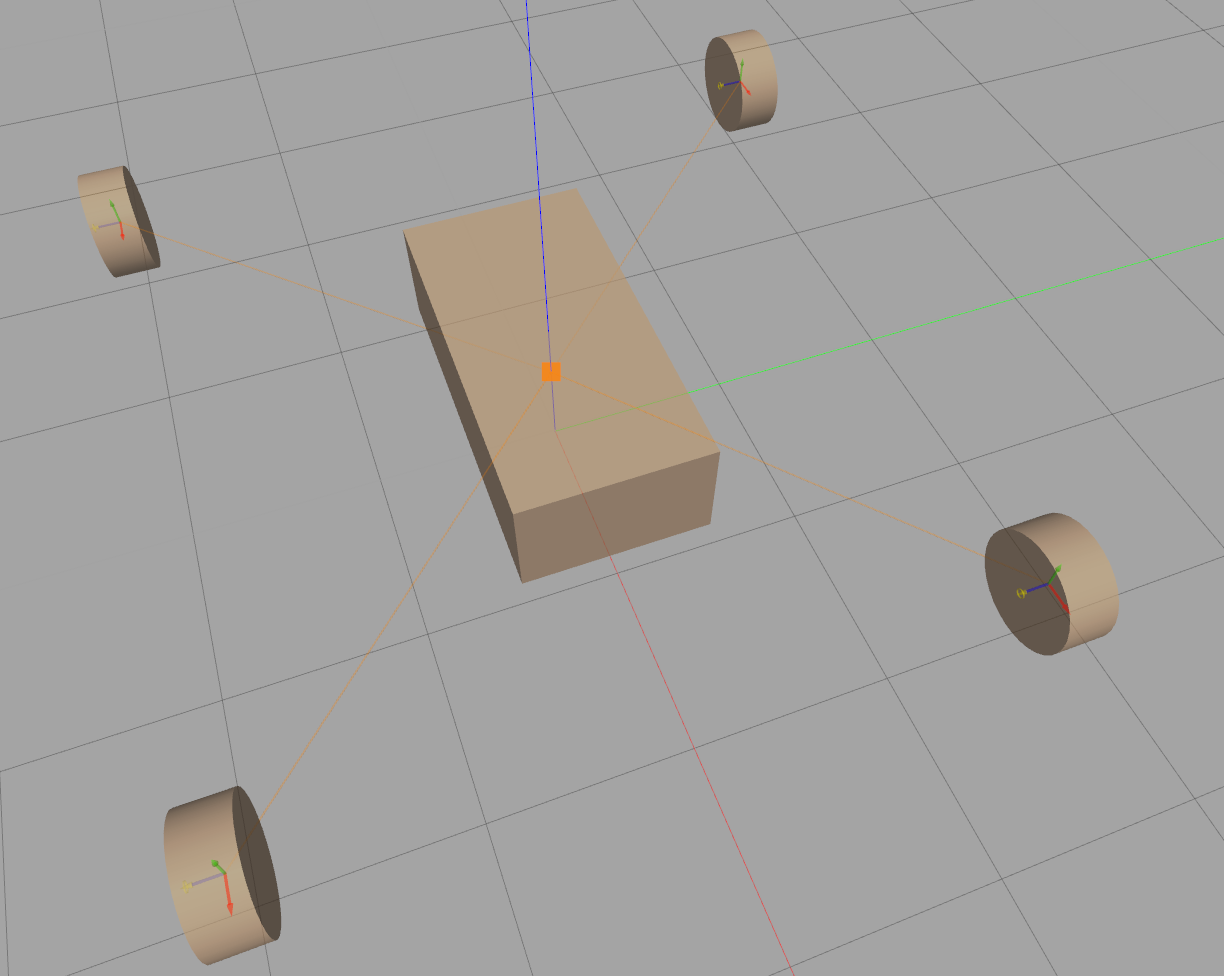
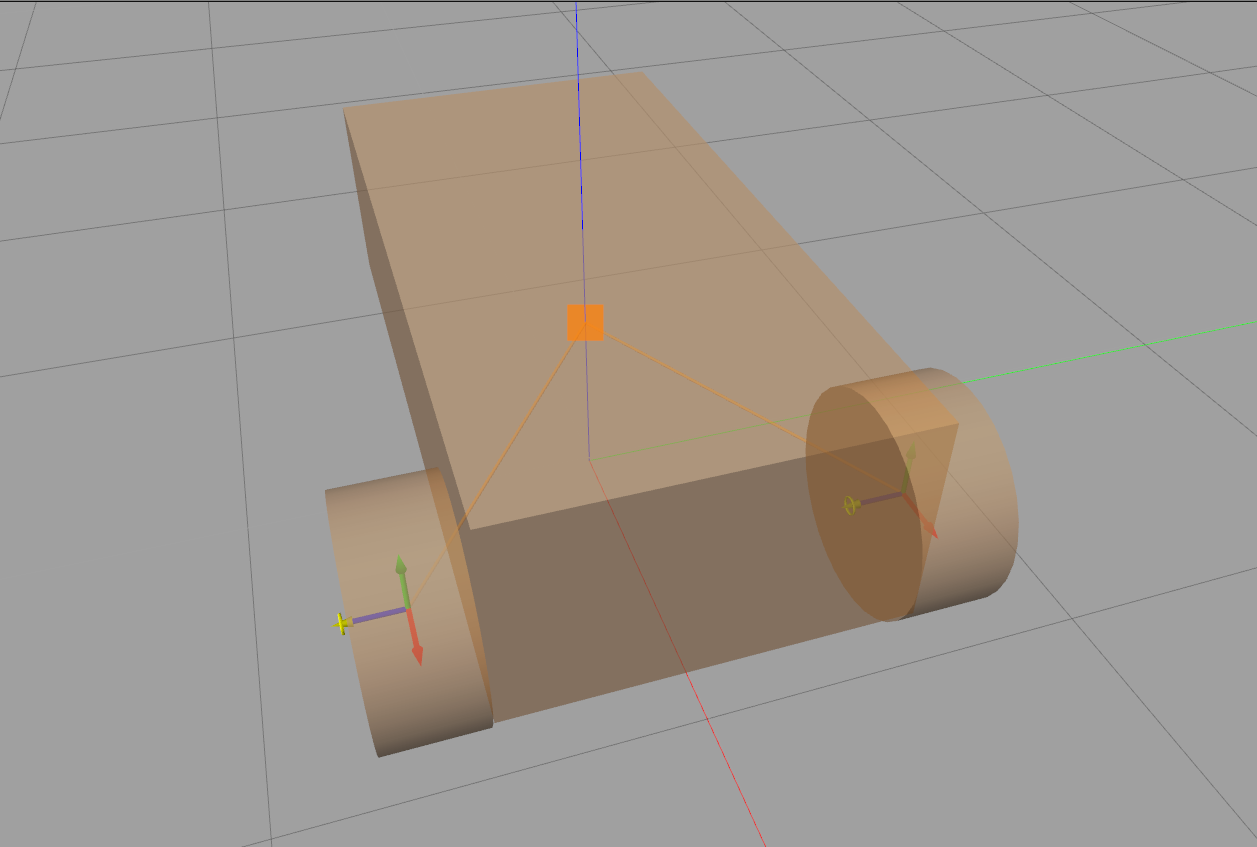
update to use the new joint creation tool, and a castor wheel

diff --git a/ftu/tutorial4.md b/ftu/tutorial4.md
@@ -62,15 +62,15 @@ yet available:
 
 This section provides step-by-step instructions on creating a simple vehicle model in the Model Editor.
 
+**Chassis**
+
 1. First,  we'll create the vehicle chassis. In the Insert tab in the left panel, click once on the Box icon, move the cursor to anywhere in the Scene,
    and click again to release the box.
 
     [[file:files/ftu4/ftu4-editor_box.png|400px]]
 
 1. Next, resize the box so that it looks more like the shape of a car chassis. We can do this using the Scale tool located on the top Toolbar.
-   Select the box in the Scene, and a RGB-colored marker should appear over the box. The red color arrow represents the X axis, green is Y, and blue is Z.
-   Move the mouse over the red arrow to highlight it, then click and drag to make the chassis longer along the X axis. Scale the chassis so it is roughly 2
-   meters long. You can estimate this by looking at the 1x1 meter grids on the ground.
+   Select the box in the Scene, and a RGB-colored marker should appear over the box. The red color arrow represents the X axis, green is Y, and blue is Z. Move the mouse over the red arrow to highlight it, then click and drag to make the chassis longer along the X axis. Scale the chassis so it is roughly 2 meters long. You can estimate this by looking at the 1x1 meter grids on the ground.
 
     [[file:files/ftu4/ftu4-scale_tool.png|200px]]
 
@@ -84,78 +84,92 @@ This section provides step-by-step instructions on creating a simple vehicle mod
 
     [[file:files/ftu4/ftu4-chassis_height.png|600px]]
 
-1. Let's move on to the wheels. Start by inserting a cylinder from the Insert tab on the left panel.
+**Front Wheels**
 
-1. The cylinder in its default orientation will not roll very well. Let's rotate it along the X axis using the Link Inspector. Double-click on the cylinder,
-   scroll to the bottom, and change `Roll` to 1.5707 radians (90 degrees) and hit the Enter key on the keyboard. Do not close the Inspector just yet.
+1. Let's move on to the front wheels. Start by inserting a cylinder from the Insert tab on the left panel.
+
+1. The cylinder in its default orientation will not roll very well. Let's rotate it along the X axis using the Link Inspector. Double-click on the cylinder, scroll to the bottom, and change `Roll` to 1.5707 radians (90 degrees) and hit the Enter key on the keyboard. Do not close the Inspector just yet.
 
     [[file:files/ftu4/ftu4-wheel_rotate.png|600px]]
 
-1. Next, resize the wheel by giving it exact dimensions. Go to the Visual tab to see the list of visuals in this link. There should only be one. Expand the
-   visual item by clicking on the small arrow next to the `visual` text label. Scroll down to the `Geometry` section and change the
-   `Radius` to 0.3m and `Length` to 0.25m. Hit Enter when done.
+1. Next, resize the wheel by giving it exact dimensions. Go to the Visual tab to see the list of visuals in this link. There should only be one. Expand the visual item by clicking on the small arrow next to the `visual` text label. Scroll down to the `Geometry` section and change the `Radius` to 0.3m and `Length` to 0.25m. Hit Enter when done.
 
     [[file:files/ftu4/ftu4-wheel_visual.png|600px]]
 
-1. You should now see in the Scene that a smaller cylinder appears inside the bigger cylinder. This is expected as we have only changed the visual geometry
-   but not the collision. A 'visual' is the graphical representation of the link and does not affect the physics simulation. On the other hand, a 'collision' is used by the physics engine for collision checking. To also update the wheel's collision, go to the Collision tab, expand the only collision item, and enter the same Geometry dimensions. `Radius`: 0.3m and `Length`:
-   0.25m.
+1. You should now see in the Scene that a smaller cylinder appears inside the bigger cylinder. This is expected as we have only changed the visual geometry but not the collision. A 'visual' is the graphical representation of the link and does not affect the physics simulation. On the other hand, a 'collision' is used by the physics engine for collision checking. To also update the wheel's collision, go to the Collision tab, expand the only collision item, and enter the same Geometry dimensions. `Radius`: 0.3m and `Length`: 0.25m.
 
-1. Now that we have created our first wheel, we'll use it as a template and make three more. Select the wheel and click on the Copy icon in the top Toolbar.
-
+1. Now that we have created our first wheel, we'll use it as a template and make another one. Select the wheel and click on the Copy icon in the top Toolbar.
+gm
     [[file:files/ftu4/ftu4-copy_tool.png|200px]]
 
-1. Click on the Paste icon and move the mouse back to the Scene to insert the copy. Repeat the process until there are four wheels in the Scene.
+1. Click on the Paste icon and move the mouse back to the Scene to insert the copy.
 
     [[file:files/ftu4/ftu4-wheel_paste.png|600px]]
 
-1. The chassis and the wheels are currently free-moving bodies. To constrain their motion, we'll add joints between each wheel and the chassis. Begin by
-   clicking on the Joint Creation icon in the top Toolbar. Move the mouse over the chassis to see it highlighted, and click on it to set it as the parent
-   of the joint.
+1. The chassis and the wheels are currently free-moving bodies. To constrain their motion, we'll add joints between each wheel and the chassis. Begin by clicking on the Joint icon in the top Toolbar to bring up the Joint Creation dialog.
 
-1. Move the mouse to one of the wheels; a line should now extend from the origin of the chassis to the end of the mouse. Click on the wheel to set it as
-   the child of the joint. A new joint is created. By default it is a revolute joint which just happens to be the joint type we want.
-   
-   Note: You may find it useful to change the view angle at this point. This can be done in the Upper Toolbar; click the cube icon with an orange side.  
+    [[file:files/ftu4/ftu4-joint_dialog.png|600px]]
+
+1. The Joint Creation dialog contains joint properties that are commonly specified for a joint. Before configuring any of the properties, you are prompted to select the parent and child links of the joint. Move the mouse over the chassis to see it highlighted, and click on it to set it as the parent of the joint.
+
+1. Move the mouse to the left front wheel; a line should now extend from the origin of the chassis to the end of the mouse. Click on the wheel to set it as the child of the joint. A new joint is created. By default it is a revolute joint (as indicated in under `Joint Types` section in the dialog) which just happens to be the joint type we want.
+
+    Note: You may find it useful to change the view angle at this point. This can be done in the Upper Toolbar; click the cube icon with an orange side.
 
     [[file:files/ftu4/ftu4-wheel_joint.png|600px]]
 
-1. Next, we need to configure the axis of rotation of the wheel. Double-click on the joint (orange line) that connects the chassis and the
-   wheel to bring up the Joint Inspector. Scroll down to `Axis1`'s `Xyz` parameter, and change the axis to be `Z` (0, 0, 1). Pay attention to the RGB
-   joint visual on the wheel. You should see that a yellow ring now apears over the blue arrow of the joint visual to indicate that it is the axis of
-   rotation.
+1. Next, we need to configure the axis of rotation of the wheel. In the Joint Creation dialog. find the `Joint axis` section and change the axis to be `Z` (0, 0, 1). Pay attention to the RGB joint visual on the wheel. You should see that a yellow ring now apears over the blue arrow of the joint visual to indicate that it is the axis of rotation.
 
     [[file:files/ftu4/ftu4-wheel_rotation_axis.png|600px]]
 
-1. Repeat the joint creation process and axis configuration for the remaining three wheels, make sure that a) the chassis is the parent of the joint and the
-   wheel is the child, and b) the axis of rotation is set to Z.
+1. To align the wheel next to the chassis, we will use the different alignment options in the `Align links` section in the Joint Creation dialog. First, we will align in the X axis so click on the `X Align Max` option to see the result of the alignment. The cylinder should be highlighted to indicate that its pose has changed.
+
+
+    [[file:files/ftu4/ftu4-wheel_align_x.png|600px]]
+
+1. In our example, we want to position the wheel flush against the chassis. To bring the wheel closer, click the `Y Align Max` option. However, it is not quite what we want yet. Click the `Reverse` option next the Y alignment options to align the wheel's minimum (reverse of maximum) to the chassis's maximum. Note that the `Reverse` option is applied to the child link since that the default alignment configuration shown in the drop down list below is `Child to Parent`.  If `Parent to Child` configuration is set, the `Reverse` option will be applied to the parent link.
+
+    [[file:files/ftu4/ftu4-wheel_align_y_reverse.png|600px]]
+
+1. To position the wheel above the ground, we can use the `Relative Pose` section at the bottom of the dialog to move the child link (wheel) relative to the parent link (chassis). Given that the wheel has a radius of 0.3m and the chassis is at 0.4m above the ground, simple math calucation will show that we need to place the wheel at -0.1m relative to the chassis. So go ahead and change the `Z` position to -0.1m.
+
+    [[file:files/ftu4/ftu4-wheel_pose_z.png|600px]]
+
+1. Press the `Create` button when done. This will finalize the joint and close the Joint Creation dialog.
+
+1. Repeat the joint creation process and axis configuration for the other front wheel, make sure that a) the chassis is the parent of the joint and the wheel is the child, b) the axis of rotation is set to `Z`, and c) use the `Y Align Min` option to align the right wheel as it is on the other side of the chassis.
 
     [[file:files/ftu4/ftu4-wheel_joints.png|600px]]
 
-1. To position the wheel next to the chassis we'll use two tools. First, we will use the Snap tool to position the wheel flush against the chassis.
-   Select the Snap icon in the top Toolbar and click on the flat side of the cylinder to indicate that it will be moved during the snap action.
+**Castor Wheel**
 
-    [[file:files/ftu4/ftu4-wheel_snap.png|600px]]
+1. To make a castor wheel for the vehicle, click on the Sphere button on left panel and insert it into the scene.
 
-1. Orient the user camera to see the side of the chassis and click on it to attach the wheel to the chassis. Do not worry about its position for now.
+    [[file:files/ftu4/ftu4-castor_sphere.png|600px]]
 
-1. To align the wheel to the chassis, we will use the Align tool. Press Escape to switch to Select mode, and click
-   on the chassis to select it. Hold the Ctrl key to enable multi-selection and click on the wheel that is attached to it - you should see that both objects
-   are now selected.
+1. Resize the sphere by giving it exact dimensions in the same way as you did for the front wheels. Go to the Visual tab to see the list of visuals in this link, expand the only visual item, scroll down to the `Geometry` section and change the `Radius` to 0.2m. Make sure to also do the same to the collision in the Collision tab.
 
-1. Click on the Align tool to bring up a sub-menu consisting of different alignment options. In our example, we want to align in the X axis so hover over
-   either the `X Align Max` or `X Align Min` option to see a preview of the alignment result. The cylinder should be aligned to the front or rear end of
-   the box. Click on the the alignment option to fix the configuration.
+    [[file:files/ftu4/ftu4-castor_resize.png|600px]]
 
-    [[file:files/ftu4/ftu4-wheel_chassis_align.png|600px]]
+1. To create a joint between the castor wheel and the chassis, bring up the Joint Creation dialog by clicking on the Joint icon in the top toolbar. Move the mouse to the scene and select the chassis as the parent link and the sphere as the child link.
 
-1. To position the cylinder back above the ground, open the Link Inspector, scroll down to the `Pose` section, and change the `Z` position to 0.3m
-   (same value as the cylinder radius).
+    [[file:files/ftu4/ftu4-castor_joint.png|600px]]
 
-1. Repeat the Snap and Alignment process for the remaining three wheels. Make sure to set the wheel position so that it sits on the ground. Once done,
-   we have a vehicle with differential drive capability!
+1. Unlike the front wheel joints, a castor wheel rolls in all directions and does not have a specific axis of rotation. In Gazebo, this is simulated using a ball joint. So under the `Joint types` section, select the `Ball` joint option. You should see the joint visual in the scene change color to indicate a different joint type has been set.
 
-    [[file:files/ftu4/ftu4-wheels_aligned.png|600px]]
+    [[file:files/ftu4/ftu4-castor_joint_ball.png|600px]]
+
+1. Next align the castor wheel so that it is centered with the chassis and positioned at the rear end. In the Align links section, select the `Y Align Center` option to center the two links in the `Y` axis, and select the `X Align Min` option to move the castor wheel so it is placed right at the back of the vehicle.
+
+    [[file:files/ftu4/ftu4-castor_align.png|600px]]
+
+1. Finally, position the castor wheel so that it sits just above the ground. Do this by setting the `Z` position in the Relative Pose section to -0.3m.
+
+    [[file:files/ftu4/ftu4-castor_joint_z.png|600px]]
+
+1. Press the `Create` button to finish the joint creation process.
+
+**Sensor**
 
 
 ### Adding a plugin
